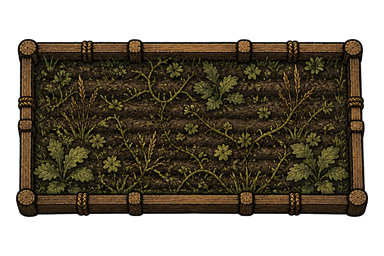
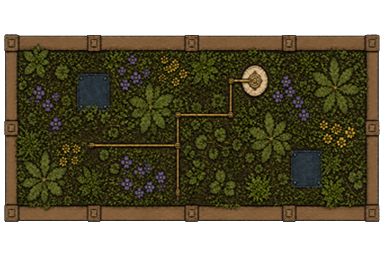
Garden plot revisiting.

diff --git a/plans/days-at-three-branches/stages/5-1-art-style.md b/plans/days-at-three-branches/stages/5-1-art-style.md
@@ -96,7 +96,7 @@ Build characters from shared north-facing grayscale-alpha masks in a conventiona
 
 Every ordinary catalog state has one distinct complete north-facing still across its catalog footprint, turned to its facing. The lantern, roadside shrine, and notice board always draw fixed north, ignoring their recorded facing. Ordinary runtime prop cells use a 384 by 256 canvas that centers their footprint with at least two transparent pixels at its edge. The board keeps a 512 by 512 canonical source and is fitted proportionally into its shared runtime cell. The lantern uses complete 384 by 512 state frames on its dedicated page, with a centered 160 px silhouette scaled by `0.10` to its one-cell collision footprint.
 
-The shared canvas usable area is 380 by 252 px, which at the 0.14 default scale carries at most 3.36 by 2.24 cells. The board's 512 by 512 canonical source carries a centered silhouette fitted within a 448 by 448 normalization target. Its configured visible-bounds fit uses the full safe cell height and produces a centered 251 by 252 runtime silhouette at scale `0.12444444444444444`, without aspect distortion or a separate atlas. This preserves the prior 31.36-unit vertical extent and gives a 31.24-unit horizontal extent, a 0.4 percent reduction caused by the source's one-pixel aspect difference. The shrine and the plot do not fit at 0.14, so their overrides are permanent until an atlas re-cut: re-author targets at their new scales, shrine 240 by 240 px at 0.20 (80 px per cell) and plot 377 by 188 px at 0.17 (94 px per cell). A 512 by 512 shared props cell would hold a 3 by 3 shrine and a 4 by 2 plot at 114 pixels per cell with no overrides; that atlas re-cut is deliberately not part of this change. The shrine's incense effect does not scale with the prop, so the smoke reads slightly smaller over the bigger shrine; that is a re-author concern, not a renderer one.
+The shared canvas usable area is 380 by 252 px, which at the 0.14 default scale carries at most 3.36 by 2.24 cells. The board's 512 by 512 canonical source carries a centered silhouette fitted within a 448 by 448 normalization target. Its configured visible-bounds fit uses the full safe cell height and produces a centered 251 by 252 runtime silhouette at scale `0.12444444444444444`, without aspect distortion or a separate atlas. This preserves the prior 31.36-unit vertical extent and gives a 31.24-unit horizontal extent, a 0.4 percent reduction caused by the source's one-pixel aspect difference. The shrine and the plot do not fit at 0.14, so their overrides are permanent until an atlas re-cut: re-author targets at their new scales, shrine 240 by 240 px at 0.20 (80 px per cell) and plot 376 by 188 px at 0.17 (94 px per cell). A 512 by 512 shared props cell would hold a 3 by 3 shrine and a 4 by 2 plot at 114 pixels per cell with no overrides; that atlas re-cut is deliberately not part of this change. The shrine's incense effect does not scale with the prop, so the smoke reads slightly smaller over the bigger shrine; that is a re-author concern, not a renderer one.
 
 The dedicated monument atlas is the sole authority for the fixed-north pump. Its 768 by 512 masters are tightly authored around their collision registration, never by enlarging legacy transparent bounds. The bell has its own double-density 1536 by 1024 page with foundation, fixed gantry, and moving circular-bell frames. `presentation.props.registeredPropByType` stores each type's texture-density divisor and the absolute source-pixel anchor for each role. The renderer divides the configured pump scale by 4 and the bell scale by 16, then places that source anchor at the collision centre. The pump still anchor is `(344, 384)`. The bell foundation, gantry, and moving-bell anchors are `(768, 512)`, `(768, 960)`, and `(768, 960)`.
 
@@ -111,7 +111,7 @@ The configured prop scale defaults to 0.14, overrides bell to 0.36 for both art 
 | Bench | `occupied` has a distinct laid cushion or folded wrap; `empty` leaves the bare slats readable. |
 | Roadside shrine | `tended` has a fresh paper offering and incense bowl; `untended` has only the weathered shrine under its roof. Draws fixed north, ignoring facing. |
 | Notice board | Its single `none` state is a fixed readable board with pale posted notices. |
-| Garden plot | `tended` has ordered dark furrows and young green rows; `overgrown` has irregular pine-green growth that does not hide the fence. |
+| Garden plot | Both states use one flat ground-inlaid 2 to 1 boundary in a 100 percent top-down orthographic view. `tended` has ordered low green rows with visible dark soil; `overgrown` has irregular pine-green growth with restrained violet and ochre flowers. The medium-dark cedar frame follows the selected bench and notice board family and exposes top faces only, so every quarter-turn facing remains credible. |
 | Inn hearth | `lit` has a gilt-and-cinnabar coal core; `unlit` has cool ash and stacked dark wood. |
 | Repair bench | `busy` has a laid-out tool and bright workpiece; `idle` has a cleared top and stored tools. |
 | Well pump | `flowing` shows a visible pale water stream and wet basin mark; `idle` a dry basin and upright handle. Registry: idle alpha bounds `x=256..512`, `y=32..480`; flowing `x=256..508`, `y=32..480`; source anchor `(344, 384)`, scale divisor 4; configured `(31, -61)` effect anchor in the centered 384 by 256 prop coordinate system, multiplied only by the configured pump scale; spout stays registered at `(468, 140)` at 4x master density without another renderer offset. |
@@ -137,12 +137,12 @@ The local manifest is the only asset catalog. Keep its referenced canonical sour
 
 `environments/three_branches/renderer/assets/presentation.json`, validated by `presentation.ts`, owns the atlas catalog, palette, ground variants, land, water, road, and path curve profiles, seam treatments (pooling, ink, water hatching), reed marks, inset route and deck geometry, roof fade, post effects (the authored grade, the night grade, and the prop contact shadow), character treatments, prop and scenery scales, monument texture-density divisors and source-pixel anchors, prop effects, and crane dressing. Each atlas group carries its mipmap flag in this catalog. `generation.json` remains generation-only, so visual calibration cannot alter seeded layouts.
 
-`renderer/assets.ts` validates the catalog and provides the runtime loader. The nine JSON atlas declarations resolve to twelve compiled pages because the character declaration has four layers. They record each compiled file, dimensions, tintability, consumer, mipmap flag, sprite-sheet frame grid, ordered cell names, source paths, and transforms. The runtime loader resolves only pages with shipped consumers: terrain, props, lantern, monuments, bell, buildings, scenery, the four character layers, and effects. Edit source art or its declared cell transform, then run `atlas build`; never hand-edit a compiled atlas page.
+`renderer/assets.ts` validates the catalog and provides the runtime loader. The nine JSON atlas declarations resolve to fourteen compiled pages because the buildings declaration has three layers and the character declaration has four layers. They record each compiled file, dimensions, tintability, consumer, mipmap flag, sprite-sheet frame grid, ordered cell names, source paths, and transforms. The runtime loader resolves only pages with shipped consumers: terrain, props, lantern, monuments, bell, the three buildings pages, scenery, the four character layers, and effects. Edit source art or its declared cell transform, then run `atlas build`; never hand-edit a compiled atlas page.
 
 | Group | Compiled dimensions | Contents |
 | --- | --- | --- |
 | Terrain | 128 px cells on one 1024 by 1152 atlas page | A few fill variants for each ground class, retained compatibility masks, the wall tiles' upper-layer repaint, and bridge plank tiles |
-| Buildings | 64 px cells | Semantic roof tiles for the home, the inn, and the repair shed |
+| Buildings | Three mipmapped full-color one-frame pages: home 1024 by 896, inn 1536 by 1280, shed 1024 by 1024 | One centered full-roof frame per semantic building, authored at 128 px per cell for home 8 by 7, inn 12 by 10, and shed 8 by 8 |
 | Props | 384 by 256 cells on one 2304 by 1536 atlas page | Current baseline: fifteen complete full-colour ordinary prop stills, with transparent cells 15 through 35. Step 5.3 unit 3 extracts the two lantern frames. |
 | Monuments | 768 by 512 cells on one 2304 by 1024 atlas page | The fixed-north pump stills, tightly authored around their configured source-pixel anchor and scale divisor |
 | Bell | 1536 by 1024 cells on one 4608 by 1024 atlas page | The double-density registered foundation, fixed gantry, and separately animated circular bell |
@@ -166,7 +166,7 @@ Status: complete.
 
 The common layer under every visual step. It has no owner gate: the step 3 solid-colour drawing still renders until art lands, so every existing probe and journey keeps its meaning.
 
-- `presentation.json` holds `atlases` (source and runtime paths, dimensions, frame grids, formats, consumers, and mipmap flags), `palette` (the 13 keys), `transition` (natural and settle-grace durations), `terrain` (fills, contour calibration, seam treatments, reed marks, planks, upper wall), `roofs` (clear alpha, fade duration, and role-keyed frame records naming each building's corner, edge, ridge, and fills), `postEffects` (`authoredGrade`, `nightGrade`, and `propContactShadow`), `characters` (clothing tints, details, walk, visitor), `props` (0.14 default still scale, lantern, bell, pump, shrine, board, and plot scale overrides, ordinary effect offsets, and pump and bell density divisors with source-pixel anchors), `scenery` (0.25 default sprite scale, multiplied by a box's catalog footprint or a pine's recorded size), `propEffects` (lantern, hearth, shrine, pump, bell), `emissives`, and `cranes`.
+- `presentation.json` holds `atlases` (source and runtime paths, dimensions, frame grids, formats, consumers, and mipmap flags), `palette` (the 13 keys), `transition` (natural and settle-grace durations), `terrain` (fills, contour calibration, seam treatments, reed marks, planks, upper wall), `roofs` (clear alpha, fade duration, and one frame name per building layer), `postEffects` (`authoredGrade`, `nightGrade`, and `propContactShadow`), `characters` (clothing tints, details, walk, visitor), `props` (0.14 default still scale, lantern, bell, pump, shrine, board, and plot scale overrides, ordinary effect offsets, and pump and bell density divisors with source-pixel anchors), `scenery` (0.25 default sprite scale, multiplied by a box's catalog footprint or a pine's recorded size), `propEffects` (lantern, hearth, shrine, pump, bell), `emissives`, and `cranes`.
 - Each grade carries brightness, contrast, saturation, a palette tint, and a tint mix. Brightness and contrast must be above zero and at most two, saturation zero through two, and tint mix zero through one. The contact shadow carries a palette tint, an opacity, width and height factors above zero and at most two, and a southward offset of zero through a quarter cell.
 - `presentation.ts` validates it in the `overlay.ts` style, cross-checks every frame name against the manifest and every tint against the palette, and exports `HEARTHSIDE_STYLE`. The step 3 canvas and camera numbers stay in TypeScript, and the provisional palette becomes a diagnostic palette kept for chrome, the collision overlay, and the pre-asset fallback.
 - `tint.ts` maps manifest frame grids to rectangles and bakes tinted grayscale masks for the tiled ground in a browser-only canvas, cached per atlas, frame, and tint. Sprites elsewhere tint directly.
@@ -283,9 +283,9 @@ Deferred to [step 5.3 unit 6](5-3-visual-refinement.md#6-monument-and-effect-com
 
 ## Roofs
 
-`buildings.ts` keeps the outline rectangles as the pre-art fallback and, once the buildings atlas installs, replaces them with roof tile plans of corners, edges, ridge, and hash-picked fills, built once per building into retained roof containers inside the authored composite above characters. Role-keyed `roofs.frames` records name each building's `corner`, `edge`, `ridge`, and `fills`, with the `*FillAlt` variants hash-picked per interior cell and `eaveShadow` reserved unused. The roofs container is retained across the art-load layer swaps, which replace only the character and upper-wall layers in place. Occupancy of the semantic rect at the recorded target tick fixes target alpha, `onFrame` eases toward it over the configured `fadeMs` wall clock, and seek, mount, frame repeat, resize, and re-installation snap. Roofs land after characters so the fade is reviewed over visible occupants. Roof occupancy reads recorded positions, so a character interpolating across a rect boundary can briefly clip an opaque roof; that is a known limit of recorded occupancy.
+`buildings.ts` keeps the outline rectangles as the pre-art fallback and, once the buildings atlas installs, replaces them with one centered full-roof sprite per semantic building, built once into retained roof containers inside the authored composite above characters. The single layered `buildings` declaration provides one frame name per page layer: `home`, `inn`, and `shed`. Those full-color pages are mipmapped and authored at 128 px per semantic cell: home is 1024 by 896 for its 8 by 7 rect, inn is 1536 by 1280 for its 12 by 10 rect, and shed is 1024 by 1024 for its 8 by 8 rect. Runtime scales each sprite by `cellSize / 128` and rotates it by the building's facing around the semantic rect center. The roofs container is retained across the art-load layer swaps, which replace only the character and upper-wall layers in place. Occupancy of the semantic rect at the recorded target tick sets target alpha to `0.18` when occupied and `1` when empty. The between-tick clock eases toward the target over `220` ms, including a reversal from the current alpha. Seek, mount, frame repeat, resize, and re-installation snap. Roofs land after characters so the fade is reviewed over visible occupants. Roof occupancy reads recorded positions, so a character interpolating across a rect boundary can briefly clip an opaque roof; that is a known limit of recorded occupancy.
 
-Tests cover the tile plan, occupancy targets, easing and snap semantics, build-once install and pre-install no-ops, and preflight failure leaving the fallback intact. The owner reviews the home, inn, and shed roofs fading on entry.
+Tests cover the one-frame page names and dimensions, centered full-roof sprite placement, `cellSize / 128` scaling, facing rotation around each semantic rect center, occupancy targets, `0.18` and `1` alpha endpoints, `220` ms easing and reversal, build-once install and pre-install no-ops, snap semantics, and preflight failure leaving the fallback intact. The owner reviews the home, inn, and shed roofs fading on entry.
 
 ### Roof sign-off
 
@@ -316,7 +316,7 @@ Deferred to [step 5.3](5-3-visual-refinement.md), after all eight visual-refinem
 
 The suite tests structure, not aesthetics: no test measures whether the village reads well, since that is the owner's call at each sign-off. Keep the mechanical coverage to:
 
-- Configuration: `presentation.json` validation for contour, seam, route, deck, roof-frame roles, and post-effect calibration, the 13 fixed hexes, and the paced and unpaced duration rules.
+- Configuration: `presentation.json` validation for contour, seam, route, deck, one-frame roof names and dimensions, and post-effect calibration, the 13 fixed hexes, and the paced and unpaced duration rules.
 - Post effects: known colour vectors through the grade matrix in the stated operation order, preserved alpha, unclamped results, authored filter placement, the retained night filter's lifecycle, the exact layer order with every post-grade exclusion, natural against architecture map ownership for both loaded and fallback art, idempotent map destruction with failed-replacement rollback, and world-south shadow offsets for east and west rectangles and for circular monuments. No aesthetic screenshot goldens.
 - Determinism: equal inputs give equal fills, contours, routes, tints, walk frames, prop treatments, and crane routes, and sustained animations are pure at equal inputs.
 - Scene lifecycle: statics build once per static-layout key, dynamic nodes reconcile by id, no tick rebuilds statics, and seek, frame repeat, and resize snap.

diff --git a/plans/days-at-three-branches/stages/5-0-atlas.md b/plans/days-at-three-branches/stages/5-0-atlas.md
@@ -11,7 +11,9 @@ Part of [the plan](../README.md). This stage is independent infrastructure: it a
 | Page | Configured source roots | Named cells |
 | --- | --- | --- |
 | `terrain-atlas.png` | `assets/source-art/frames/terrain/` | 68 |
-| `buildings-atlas.png` | `assets/source-art/frames/buildings/` | 16 |
+| `buildings-home-atlas.png` | `assets/source-art/frames/buildings/` | 1 (`home`) |
+| `buildings-inn-atlas.png` | `assets/source-art/frames/buildings/` | 1 (`inn`) |
+| `buildings-shed-atlas.png` | `assets/source-art/frames/buildings/` | 1 (`shed`) |
 | `props-atlas.png` | `assets/source-art/stall/` and `assets/source-art/frames/props/` | 17 |
 | `lantern-atlas.png` | `assets/source-art/frames/lantern/` | 2 |
 | `monuments-atlas.png` | `assets/source-art/frames/monuments/` | 2 |
@@ -22,11 +24,13 @@ Part of [the plan](../README.md). This stage is independent infrastructure: it a
 
 The Named cells column counts configured cells, not frame pixels. Each page's current frame dimensions, count, names, source paths, and transforms live in `renderer/assets/presentation.json` and change only with the consuming art unit, its source art, compiled page, plan facts, and tests in the same change set.
 
+The nine JSON atlas declarations resolve to fourteen compiled pages. The `buildings` declaration is one layered, full-color group with three mipmapped one-frame pages: `buildings-home-atlas.png` is 1024 by 896, `buildings-inn-atlas.png` is 1536 by 1280, and `buildings-shed-atlas.png` is 1024 by 1024. Each page is authored at 128 px per semantic cell for the home's 8 by 7, inn's 12 by 10, and shed's 8 by 8 extent. This replaces the previous single buildings page with three pages, a net increase of two.
+
 A cell name is declared explicitly in `presentation.json`; it is not inferred from a directory or filename. Exact-copy cells must match the configured frame size. Transformed cells use the configured crop and raster operation.
 
 The terrain page is an 8 by 9 grid of 128 px frames on a 1024 by 1152 runtime page. Its 68 named frames leave the final four cells transparent.
 
-The props cell names in `presentation.json` remain ordered by ordinary catalog tokens and states. Slots 0 through 5 contain `stallAOpen`, `stallAClosed`, `stallBOpen`, `stallBClosed`, `stallCOpen`, and `stallCClosed`. Slots 6 through 16 contain the remaining complete prop states in catalog order, from `benchOccupied` through `repairBenchIdle`. Slots 17 through 35 are an unnamed trailing suffix that the compiler fills transparently. The six stall cells use their 1536 by 1024 masters with the configured area resize to 384 by 256. The fixed-north board keeps a 512 by 512 canonical source. A configured visible-bounds fit uses the full safe 252 px cell height, preserves the source proportions, and centers the resulting 251 by 252 silhouette at `(192, 128)` in its shared props cell. The runtime page remains 2304 by 1536.
+The props cell names in `presentation.json` remain ordered by ordinary catalog tokens and states. Slots 0 through 5 contain `stallAOpen`, `stallAClosed`, `stallBOpen`, `stallBClosed`, `stallCOpen`, and `stallCClosed`. Slots 6 through 16 contain the remaining complete prop states in catalog order, from `benchOccupied` through `repairBenchIdle`. Slots 17 through 35 are an unnamed trailing suffix that the compiler fills transparently. The six stall cells use their 1536 by 1024 masters with the configured area resize to 384 by 256. The fixed-north board keeps a 512 by 512 canonical source. A configured visible-bounds fit uses the full safe 252 px cell height, preserves the source proportions, and centers the resulting 251 by 252 silhouette at `(192, 128)` in its shared props cell. The two garden cells are exact-copy 384 by 256 sources with a common centered 376 by 188 visible rectangle. The runtime page remains 2304 by 1536.
 
 The lantern page is a 2 by 1 grid of 384 by 512 frames on a 768 by 512 runtime page. It names `lanternLit` and `lanternUnlit` from the source paths declared in `presentation.json`.
 
@@ -57,22 +61,22 @@ Freshness is pixel defined, never byte defined: checks decode both sides and com
 
 ## Incremental runtime loading
 
-`assets/presentation.json` keeps the catalog, page paths, grids, dimensions, sampling flags, ordered cell names, source paths, and source transforms. `assets.ts` validates that catalog and loads its twelve shipped pages: terrain, props, lantern, monuments, bell, buildings, scenery, the four character layers, and effects. Later approved visual units add pages when their consumers land. `source-art/` contains the canonical inputs referenced by the catalog. Unreferenced intermediate sheets and superseded masters are not retained. Skirmish at Crane Reach ships loose ungridded files and needs nothing from this stage.
+`assets/presentation.json` keeps the catalog, page paths, grids, dimensions, sampling flags, ordered cell names, source paths, and source transforms. `assets.ts` validates that catalog and loads its fourteen shipped pages: terrain, props, lantern, monuments, bell, the three buildings pages, scenery, the four character layers, and effects. Later approved visual units add pages when their consumers land. `source-art/` contains the canonical inputs referenced by the catalog. Unreferenced intermediate sheets and superseded masters are not retained. Skirmish at Crane Reach ships loose ungridded files and needs nothing from this stage.
 
 The four configured road cells share an even base so deterministic frame selection cannot create tonal blocks. The four configured path cells retain the accepted worn-stone variations. Configured source cells remain the editable input; runtime atlases are generated outputs.
 
 ## Migration
 
-Declare the 116 terrain, buildings, scenery, effects, and character cells, then declare props, lantern, monuments, and bell cells with their source paths. Declare each transformed cell's complete raster recipe. Keep cells 17 through 35 of props and the four unused monument cells transparent, and retain all three high-resolution bell cells. Commit canonical source art, config, and compiled runtime pages together. The compiler rejects missing sources, unsafe paths, invalid dimensions, invalid crops, bad transforms, duplicate cells, and non-grayscale output.
+Declare terrain, scenery, effects, and character cells, then declare props, lantern, monuments, bell, and the layered buildings group with its one full-color frame per building page. Declare each transformed cell's complete raster recipe. Keep cells 17 through 35 of props and the four unused monument cells transparent, and retain all three high-resolution bell cells. Commit canonical source art, config, and compiled runtime pages together. The compiler rejects missing sources, unsafe paths, invalid dimensions, invalid crops, bad transforms, duplicate cells, and non-grayscale output.
 
 ## Tests
 
 - Pure compiler tests in `frontend/test/atlas.test.ts` run on small synthetic images: exact-copy and area-resize cells, alpha normalization and cleanup, visible-bounds fitting, shared bounds, deterministic rounding, crop validation, source containment, duplicate and missing cells, grayscale-alpha validation, and bad grid arithmetic.
-- `assets.test.ts` checks catalog completeness, the nontrivial nested prop paths, the dedicated lantern and bell paths, and the exact runtime page set for terrain, props, lantern, monuments, bell, buildings, scenery, the four character layers, and effects.
+- `assets.test.ts` checks catalog completeness, the nontrivial nested prop paths, the dedicated lantern and bell paths, the three mipmapped buildings pages, and the exact fourteen-page runtime set for terrain, props, lantern, monuments, bell, buildings, scenery, the four character layers, and effects.
 - A freshness test in `environments/three_branches/renderer/atlas.test.ts` compiles every page from its configured source cells and compares pixels against the committed page, and checks each page's PNG header against its declared dimensions.
 
 All three ride the existing vitest include globs, so `scripts/ci.py` needs no change.
 
 ## Done when
 
-All twelve declared pages have complete configured source cells, each compiled page matches its current config, the terrain page matches its 68 cells with four transparent trailing cells, `assets/props-atlas.png` has transparent cells 17 through 35, its board cell is fitted from the 512 by 512 canonical source without aspect distortion, `assets/lantern-atlas.png` matches its two tall state cells, `assets/monuments-atlas.png` matches its two pump cells with four transparent trailing cells, `assets/bell-atlas.png` matches its three double-density bell roles, and `assets/scenery-atlas.png` matches its seven full-color scenery cells with a transparent eighth cell. `npm run atlas --workspace @game-sandbox/frontend -- check three_branches` passes, compiler and freshness tests are green in CI, the runtime bundle loads only pages with shipped consumers, every configured cell retains its canonical source art, and the plan README and consuming stages reference this compiler.
+All fourteen compiled pages from nine declarations have complete configured source cells, each compiled page matches its current config, the terrain page matches its 68 cells with four transparent trailing cells, `assets/props-atlas.png` has transparent cells 17 through 35, its board cell is fitted from the 512 by 512 canonical source without aspect distortion, `assets/lantern-atlas.png` matches its two tall state cells, `assets/monuments-atlas.png` matches its two pump cells with four transparent trailing cells, `assets/bell-atlas.png` matches its three double-density bell roles, the three mipmapped buildings pages each match one full-color frame at their declared dimensions, and `assets/scenery-atlas.png` matches its seven full-color scenery cells with a transparent eighth cell. `npm run atlas --workspace @game-sandbox/frontend -- check three_branches` passes, compiler and freshness tests are green in CI, the runtime bundle loads only pages with shipped consumers, every configured cell retains its canonical source art, and the plan README and consuming stages reference this compiler.

diff --git a/plans/days-at-three-branches/stages/5-3-visual-refinement.md b/plans/days-at-three-branches/stages/5-3-visual-refinement.md
@@ -107,7 +107,7 @@ The owner selected the decorated riven conduit arch from [shrine comparison 2](.
 
 The selected notice board from [board comparison 1](../art/board-comparison-1/prompts.md) combines decisive dry-brush structural ink with clear warm cedar colour. Its five pinned notices carry bold pictorial postings for a river route, market fruit, an herb sprig, a lantern, and a repair task, with no readable writing. Indigo iron clips, a bone ceramic insulator, and one brass conductor path carry the shared magic-punk language. The shared normalizer places its visible pixels within the centered `(32, 32, 448, 448)` target on a 512 by 512 canonical source. The shared props-atlas recipe then uses the full safe 252 px cell height and preserves the source proportions, producing a centered 251 by 252 runtime silhouette. Scale `0.12444444444444444` preserves the prior 31.36-unit vertical extent and gives a 31.24-unit horizontal extent. The fixed-north presentation, ordinary centered anchor, 2 by 2 gameplay footprint, collision, state name, shadow, and highlight remain unchanged. The board does not use a dedicated atlas.
 
-[Plot comparison 1](../art/plot-comparison-1/prompts.md) was rejected because its directional raised-wall projection did not remain credible under runtime rotation. [Plot comparison 2](../art/plot-comparison-2/prompts.md) was also rejected because its shallow edge depth still read as a wall. Both rejected batches retain prompt provenance but no raster proofs. [Plot comparison 3](../art/plot-comparison-3/prompts.md) starts fresh from the accepted closed stall, approval scene, and material board. It holds a true overhead 4 by 2 rectangle, level soil, the stable Hearthside Ink language, and a strict zero-wall rule fixed across two concept alternatives. Construction, botanical composition, and flush hardware layout may vary: A uses four broad flush sleepers, and B uses narrow inlaid planks. The two raw proofs await owner concept selection before the tended state, normalization, or runtime integration.
+[Plot comparison 1](../art/plot-comparison-1/prompts.md) was rejected because its directional raised-wall projection did not remain credible under runtime rotation. [Plot comparison 2](../art/plot-comparison-2/prompts.md) was also rejected because its shallow edge depth still read as a wall. Both rejected batches retain prompt provenance but no raster proofs. [Plot comparison 3](../art/plot-comparison-3/prompts.md) was rejected because its remaining depth cues still failed the rotation-safe projection requirement. [Plot comparison 4](../art/plot-comparison-4/prompts.md) defines the production garden as a 100 percent top-down orthographic plan view with one flat ground-inlaid boundary and no visible vertical face, rim thickness, drop shadow, perspective, or directional facade. Its medium-dark cedar frame is bounded by the selected bench and notice board timber family. Contrast comes from dark soil, distinct plant greens, charcoal-indigo plates, pale bone ceramic, restrained brass, and violet and ochre flowers rather than bright wood. The overgrown and tended states share a centered 376 by 188 visible rectangle on ordinary 384 by 256 sources. Both remain on the shared props page at scale `0.17`, use the existing `overgrown` and `tended` names, rotate with recorded facing, and preserve the 4 by 2 gameplay footprint, collision, selection, and interaction contract.
 
 The tended shrine's drifting violet cloud is a separate 192 by 128 grayscale-alpha effect mask. The base still contains no drifting wisps or detached motes. A reusable optional `opacityAnimation` treatment on any sustained prop effect accepts `mode`, `min`, `max`, and `periodTicks`. The `pingPong` mode resolves absolute opacity from `min` to `max` and back once per configured period. It uses fractional presentation tick and the existing stable prop phase, so the same replay seek always produces the same opacity. The shrine uses `min: 0`, `max: 1`, and `periodTicks: 8`, with a fixed centered scale that aligns the full effect canvas to the shrine canvas. Only opacity animates. This adds no gameplay state, collision rule, mutable effect clock, or shrine emissive.
 
@@ -117,13 +117,15 @@ The regenerated comparison uses a compact octagonal lantern whose height is conv
 
 Formal Gate A waits for one sheet containing every revised prop state and the crate. After Gate A, promote the accepted source art, declare its cell transforms in `presentation.json`, compile the runtime atlas, and update steps 5.0 and 5.1. Gate B then checks the pinned fixture and generated seeds `0`, `17`, and `37` for fitted hierarchy, middle and close material unity, state readability, night behavior, unchanged registered-prop placement, and the crate's 2 by 2 collision contract.
 
-### 4. 128 px roof tiles
+### 4. 128 px full-roof building sprites
 
 Desired result: roof materials establish a readable building hierarchy from fitted view and reward close inspection without obscuring residents.
 
 First, inspect the current roofs against the approved references at fitted, middle, and close scales, plus night. Present prioritized deviations, their effect, and proposed tuning focus to the owner, then wait for direction before art or runtime changes.
 
-Keep semantic building extents, collision, and the existing occupancy fade and replay-seek behavior.
+Keep semantic building extents, collision, and the existing occupancy fade and replay-seek behavior. Use one layered `buildings` atlas declaration that resolves to three mipmapped full-color one-frame pages: `buildings-home-atlas.png` at 1024 by 896, `buildings-inn-atlas.png` at 1536 by 1280, and `buildings-shed-atlas.png` at 1024 by 1024. Each source is authored at 128 px per semantic cell for the home 8 by 7, inn 12 by 10, and shed 8 by 8 extents. The roof schema names one frame per building layer. Runtime keeps one centered full-roof sprite per semantic building, scales it by `cellSize / 128`, and rotates it by facing around the rect center. Retain the roof container, clear alpha `0.18`, fade duration `220` ms, occupancy targets, snap on mount, seek, repeated frames, resize, and reinstall, plus reversible easing when occupancy changes.
+
+Acceptance note: Gate A approved the concept-3 wash-led family on 2026-08-22. The cyclic assignment is timber-plank shed proof to home, cedar-shingle home proof to inn, and indigo ceramic inn proof to shed. Normalized sources have clean alpha, and compiled pages use mipmaps. Gate B remains pending until integrated manual review.
 
 ### 5. Four layered cast sets
 
